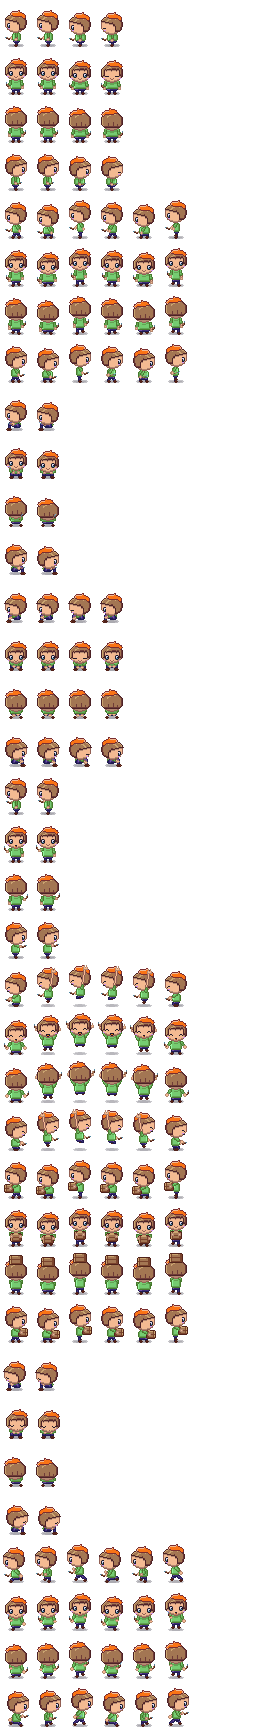
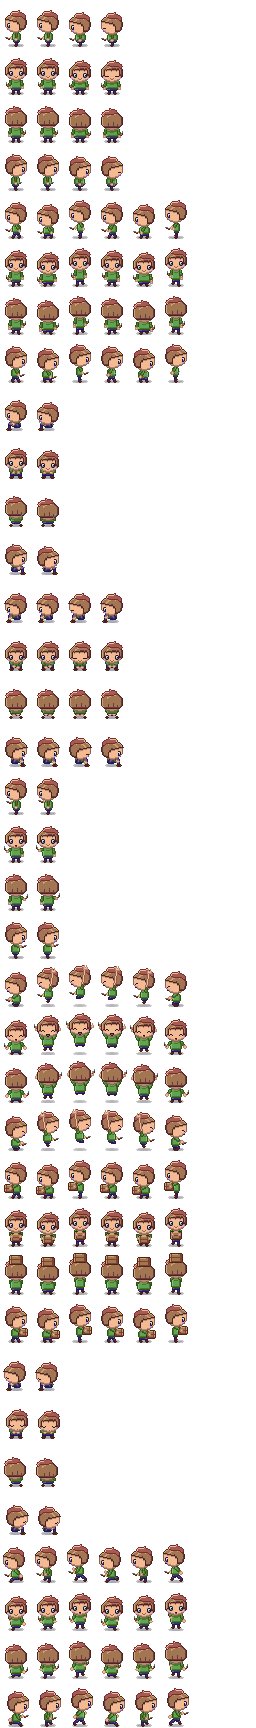
fix(world): camisa verde dos bots desce um degrau na rampa (separa da grama); cabelo da Hinata em marinho; boina da Nami e boca em telha-3

diff --git a/scripts/world-v2/gen-bots.py b/scripts/world-v2/gen-bots.py
@@ -1439,14 +1439,14 @@ VILA48_REMAP = {
     "ol0": "pedra-0", "ol1": "telha-1",
     "s0": "pele-2", "s1": "pele-3", "s2": "telha-5", "s3": "pele-5",
     "h0": "pele-0", "h1": "pele-1", "h2": "terra-3", "h3": "terra-4",
-    "g0": "verde-2", "g1": "verde-3", "g2": "verde-4", "g3": "verde-5",
+    "g0": "verde-1", "g1": "verde-2", "g2": "verde-3", "g3": "verde-4",
     "p0": "lilas-1", "p1": "lilas-2", "p2": "lilas-3",
     "w0": "terra-1", "w1": "terra-2", "w2": "terra-3", "w3": "terra-4",
     "t0": "pele-2", "t1": "pele-3", "t2": "terra-4", "t3": "pele-4", "t4": "pele-5",
     "q0": "verde-1", "q1": "folha-2", "q2": "folha-3", "q3": "folha-4", "q4": "folha-5", "q5": "folha-5",
     "a0": "agua-1", "a1": "agua-3", "a2": "agua-4", "a3": "agua-5",
     "y0": "terra-4", "y1": "terra-5", "y2": "pele-5",
-    "r0": "telha-2", "r1": "telha-4", "r2": "telha-5",
+    "r0": "telha-2", "r1": "telha-3", "r2": "telha-5",
     "wh": "pedra-5",
     "m0": "lilas-1", "m1": "pedra-1", "m2": "pedra-2",
     "k0": "lilas-4", "k1": "lilas-5",
@@ -1454,7 +1454,7 @@ VILA48_REMAP = {
 }
 assert set(VILA48_REMAP) == set(PALETTE)
 # amber y0 on the Deck sheet is only the cap: it stays the orange that identifies the avatar
-VILA48_BOT_REMAP = {"deck": {"y0": "telha-4"}}
+VILA48_BOT_REMAP = {"deck": {"y0": "telha-4"}, "hinata": {"p0": "lilas-0", "p1": "lilas-1", "p2": "lilas-2"}}
 
 
 def vila(tone):
